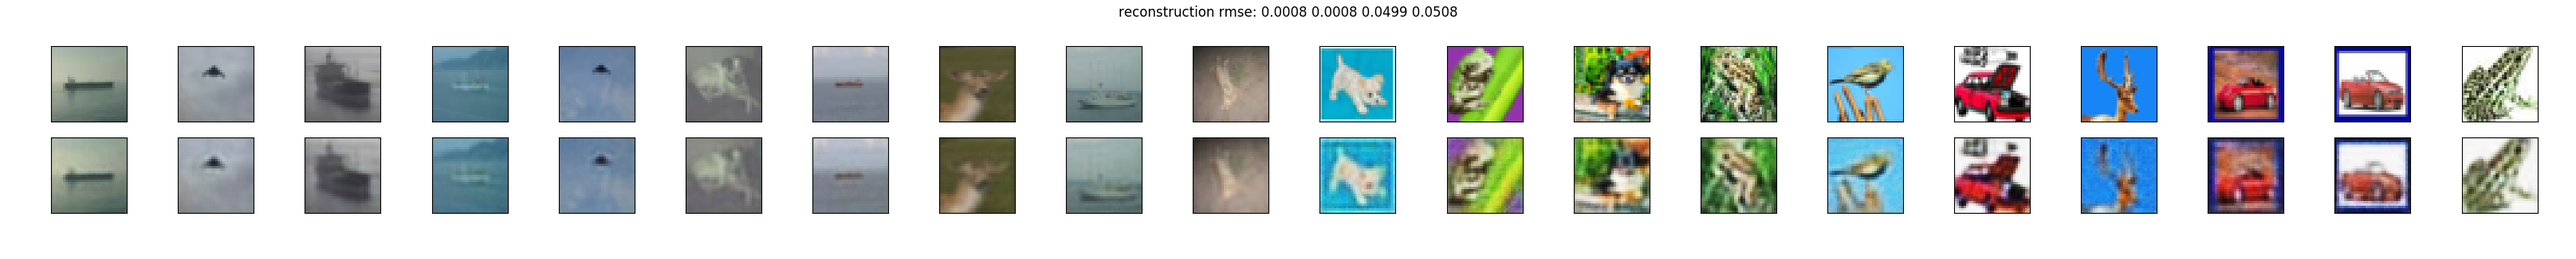
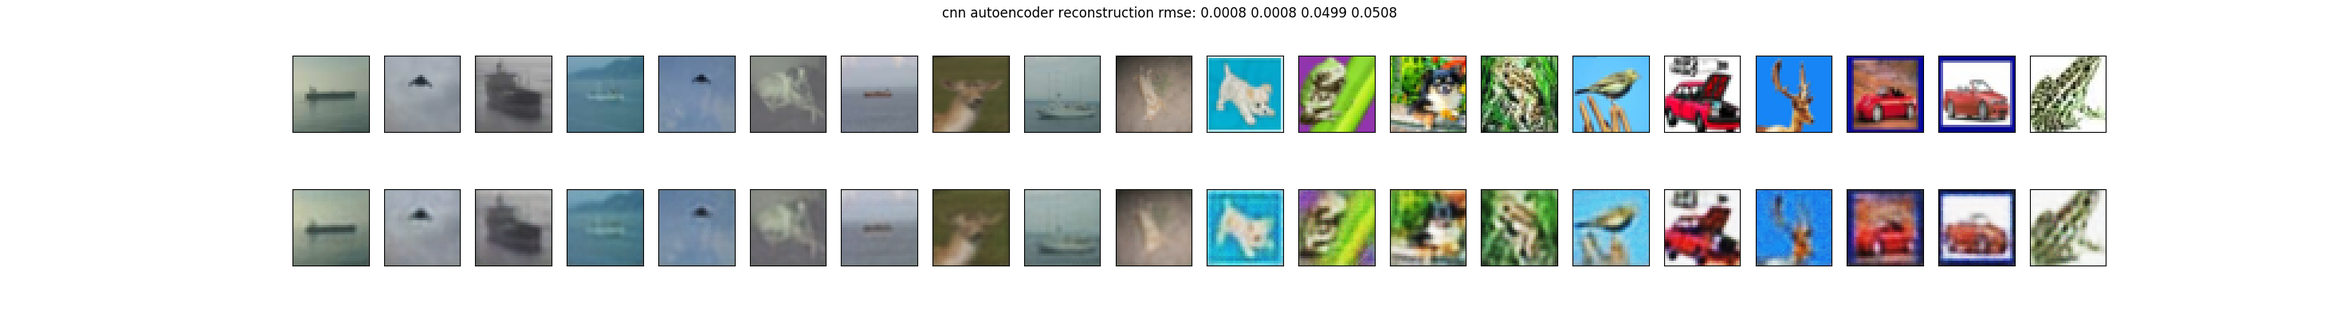
fixed prob1 fig

diff --git a/hw10_anomaly_detection_img/visualizeAEimg_cnn.py b/hw10_anomaly_detection_img/visualizeAEimg_cnn.py
@@ -46,7 +46,7 @@ loss_list = np.array(loss_list)
 idx_loss_list = np.argsort(loss_list)
 
 # get top n min & max indexes
-n_idx = 2
+n_idx = 10
 indexes = []
 for i in range(n_idx):
     print("min", idx_loss_list[i], loss_list[idx_loss_list[i]])
@@ -72,7 +72,7 @@ for i, img in enumerate(recs):
     plt.subplot(2, n_idx*2, n_idx*2+i+1, xticks=[], yticks=[])
     plt.imshow(img)
 
-fig.suptitle("reconstruction rmse: {:.4f} {:.4f} {:.4f} {:.4f}".format(loss_list[idx_loss_list[0]],
+fig.suptitle("cnn autoencoder reconstruction rmse: {:.4f} {:.4f} {:.4f} {:.4f}".format(loss_list[idx_loss_list[0]],
                                             loss_list[idx_loss_list[1]],
                                             loss_list[idx_loss_list[-2]],
                                             loss_list[idx_loss_list[-1]]))

diff --git a/hw10_anomaly_detection_img/visualizeAEimg_fcn.py b/hw10_anomaly_detection_img/visualizeAEimg_fcn.py
@@ -46,7 +46,7 @@ loss_list = np.array(loss_list)
 idx_loss_list = np.argsort(loss_list)
 
 # get top n min & max indexes
-n_idx = 10
+n_idx = 2
 indexes = []
 for i in range(n_idx):
     print("min", idx_loss_list[i], loss_list[idx_loss_list[i]])
@@ -74,7 +74,7 @@ for i, img in enumerate(recs):
     img = (img + 1 )/2 
     plt.imshow(img)
 
-fig.suptitle("{:.4f} {:.4f} {:.4f} {:.4f}".format(loss_list[idx_loss_list[0]],
+fig.suptitle("fcn autoencoder reconstruction rmse: {:.4f} {:.4f} {:.4f} {:.4f}".format(loss_list[idx_loss_list[0]],
                                             loss_list[idx_loss_list[1]],
                                             loss_list[idx_loss_list[-2]],
                                             loss_list[idx_loss_list[-1]]))
